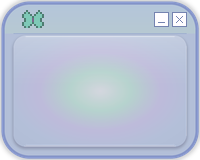
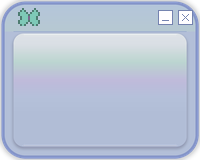
Pixel Daydream: linear gradient, yellow in received, fully consistent title bar
- Switched the panel back to a LINEAR vertical gradient (transition in the
  9-slice stretch zone, solid caps) so it stays evenly dispersed on long
  messages.
- Received bubble now blends soft butter-yellow into the pink.
- Sent bubble keeps a richer holographic linear ramp (white -> mint ->
  lavender -> periwinkle -> blue).
- Shrank the 9-slice cap to 22px and tightened the title geometry so even the
  shortest bubble stays above the clamp threshold -- the top bar and its
  top/bottom padding are now identical on every bubble, any length or shape.

Claude-Session: https://claude.ai/code/session_0131KihTAuQeJCaUMiKQDazA

diff --git a/themes/pixel-daydream/KakaoTalkTheme.css b/themes/pixel-daydream/KakaoTalkTheme.css
@@ -112,12 +112,12 @@ InputBarStyle-Chat
 
 MessageCellStyle-Send
 {
-  -ios-background-image: 'chatroomBubbleSend01.png' 24px 24px;
-  -ios-selected-background-image: 'chatroomBubbleSend01Selected.png' 24px 24px;
-  -ios-group-background-image: 'chatroomBubbleSend02.png' 24px 24px;
-  -ios-group-selected-background-image: 'chatroomBubbleSend02Selected.png' 24px 24px;
-  -ios-title-edgeinsets: 23px 16px 11px 16px;
-  -ios-group-title-edgeinsets: 23px 16px 11px 16px;
+  -ios-background-image: 'chatroomBubbleSend01.png' 22px 22px;
+  -ios-selected-background-image: 'chatroomBubbleSend01Selected.png' 22px 22px;
+  -ios-group-background-image: 'chatroomBubbleSend02.png' 22px 22px;
+  -ios-group-selected-background-image: 'chatroomBubbleSend02Selected.png' 22px 22px;
+  -ios-title-edgeinsets: 20px 16px 10px 16px;
+  -ios-group-title-edgeinsets: 20px 16px 10px 16px;
   -ios-text-color: #45456E;
   -ios-selected-text-color: #45456E;
   -ios-unread-text-color: #6E7BC8;
@@ -125,12 +125,12 @@ MessageCellStyle-Send
 
 MessageCellStyle-Receive
 {
-  -ios-background-image: 'chatroomBubbleReceive01.png' 24px 24px;
-  -ios-selected-background-image: 'chatroomBubbleReceive01Selected.png' 24px 24px;
-  -ios-group-background-image: 'chatroomBubbleReceive02.png' 24px 24px;
-  -ios-group-selected-background-image: 'chatroomBubbleReceive02Selected.png' 24px 24px;
-  -ios-title-edgeinsets: 23px 16px 11px 16px;
-  -ios-group-title-edgeinsets: 23px 16px 11px 16px;
+  -ios-background-image: 'chatroomBubbleReceive01.png' 22px 22px;
+  -ios-selected-background-image: 'chatroomBubbleReceive01Selected.png' 22px 22px;
+  -ios-group-background-image: 'chatroomBubbleReceive02.png' 22px 22px;
+  -ios-group-selected-background-image: 'chatroomBubbleReceive02Selected.png' 22px 22px;
+  -ios-title-edgeinsets: 20px 16px 10px 16px;
+  -ios-group-title-edgeinsets: 20px 16px 10px 16px;
   -ios-text-color: #6B4A60;
   -ios-selected-text-color: #6B4A60;
   -ios-unread-text-color: #EE6FA6;

diff --git a/themes/pixel-daydream/scripts/generate_images.py b/themes/pixel-daydream/scripts/generate_images.py
@@ -247,10 +247,11 @@ def pal_mono(c):
 # ===========================================================================
 DS = 12                       # draw units per 1x point (downscaled -> crisp)
 BUB_W, BUB_H = 100, 80        # 1x points
-CAP = 24                      # 9-slice cap (matches the CSS). Small enough that
-                              # even a 1-line bubble stays taller than 2*CAP, so
-                              # the cap never clamps and the TITLE BAR is exactly
-                              # the same size on every bubble regardless of text.
+CAP = 22                      # 9-slice cap (matches the CSS). Kept well below
+                              # half the smallest bubble height (~50px) so the
+                              # cap never clamps -- the TITLE BAR (and its top/
+                              # bottom padding) is then identical on every bubble
+                              # regardless of message length or shape.
 
 
 def _grad_v(w, h, top, bot):
@@ -323,19 +324,19 @@ class Bub:
 
 # panel_stops are now a RADIAL ramp: centre -> edge. The edge equals the window
 # frame colour so the panel blends seamlessly into the frame.
-# received = pink window: soft-pink centre -> pink -> deeper pink -> pink frame
-# (pink-dominant, with just a whisper of mint near the centre)
+# panel_stops are a LINEAR vertical ramp (top -> bottom).
+# received = pink window: soft butter-yellow -> warm pink -> pink frame
 RECV = Bub(border=(232, 146, 192), frame=(247, 199, 223),
            title_top=(250, 202, 225), title_bot=(238, 197, 227),
-           panel_stops=[(255, 247, 251), (250, 226, 240), (249, 208, 228), (247, 199, 223)],
+           panel_stops=[(255, 248, 224), (253, 228, 230), (250, 210, 226), (247, 199, 223)],
            div=(236, 158, 200), glow=(252, 206, 232, 150), wing=(132, 222, 214))
 
-# sent = periwinkle window: richer hologram -- white centre -> mint -> lavender
-# -> periwinkle -> blue frame edge (more colour, still soft and frame-seamless)
+# sent = periwinkle window: richer hologram -- cool white -> mint -> lavender
+# -> periwinkle -> blue (more colour, still soft)
 SENT = Bub(border=(148, 166, 224), frame=(199, 213, 240),
            title_top=(201, 219, 245), title_bot=(204, 224, 234),
-           panel_stops=[(240, 244, 250), (205, 238, 230), (214, 210, 246),
-                        (203, 216, 244), (199, 213, 240)],
+           panel_stops=[(238, 245, 250), (205, 237, 229), (215, 209, 246),
+                        (204, 217, 245), (199, 213, 240)],
            div=(158, 178, 226), glow=(200, 216, 246, 150), wing=(140, 224, 204))
 
 PANEL_ALPHA = 242             # frosted: lets a touch of background through
@@ -345,10 +346,10 @@ def _bubble_master(b):
     """Render the embossed, glossy hologram window at DS resolution."""
     W, H = BUB_W * DS, BUB_H * DS
     lw = max(2, int(1.6 * DS))
-    r_out = 14 * DS
-    title_h = 16 * DS
+    r_out = 12 * DS
+    title_h = 15 * DS
     margin = 6 * DS                  # frame thickness around the inset panel
-    r_in = 6 * DS
+    r_in = 5 * DS
     panel_gap = 1 * DS               # gap between title bar and the panel
     # NB: title_h + panel_gap + r_in (+border) must stay <= CAP so BOTH the
     # top AND bottom panel corners sit fully inside the 9-slice cap -- otherwise
@@ -390,10 +391,17 @@ def _bubble_master(b):
         [px0, py0 + int(DS * 0.9), px1, py1 + int(DS * 0.9)], radius=r_in, fill=(72, 60, 104, 85))
     out.alpha_composite(sh.filter(ImageFilter.GaussianBlur(DS * 0.8)))
 
-    # circular (radial) fill: bright centre fading to the frame colour at the
-    # edges, so the panel blends seamlessly into the window frame.
+    # LINEAR vertical gradient. The whole colour transition lives in the
+    # 9-slice stretch zone (between the caps); the cap zones are solid and equal
+    # to the gradient's end colours. KakaoTalk then scales the gradient evenly
+    # over the middle of any-height bubble while the caps continue the end
+    # colours -- so even long messages get an evenly dispersed gradient.
+    mid0, mid1 = CAP * DS, H - CAP * DS
     pfill = Image.new("RGBA", (W, H), (0, 0, 0, 0))
-    pfill.paste(_radial_fill(px1 - px0, py1 - py0, b.panel_stops).convert("RGBA"), (px0, py0))
+    pd = ImageDraw.Draw(pfill)
+    pd.rectangle([0, py0, W, mid0], fill=b.panel_stops[0] + (255,))
+    pfill.paste(_grad_v_stops(W, mid1 - mid0, b.panel_stops).convert("RGBA"), (0, mid0))
+    pd.rectangle([0, mid1, W, py1], fill=b.panel_stops[-1] + (255,))
     out.paste(pfill, (0, 0), pmask)
 
     # soft glossy sheen across the top of the panel (subtle, vertical fade)
@@ -434,14 +442,14 @@ def _overlay_widgets(img, scale, b):
     d = ImageDraw.Draw(img)
     # pixel butterfly, inset from the LEFT, vertically centred in the title bar
     draw_pixels(d, BUTTERFLY, pal_butterfly(b.wing, darken(b.wing, 0.62)),
-                11 * scale, 5 * scale, scale)
+                9 * scale, 4 * scale, scale)
     # minimize + close buttons, inset from the RIGHT, centred in the title bar
     edge = darken(b.border, 0.88)
     bfill = (255, 253, 255, 240)
     size = 7
     for i, kind in enumerate(("min", "close")):
-        x = (77 + i * 9) * scale
-        y = 6 * scale
+        x = (79 + i * 10) * scale
+        y = 5 * scale
         x1, y1 = x + size * scale, y + size * scale
         d.rectangle([x, y, x1, y1], fill=bfill, outline=edge, width=max(1, scale // 2))
         if kind == "min":

diff --git a/themes/pixel-daydream/scripts/preview_pages.py b/themes/pixel-daydream/scripts/preview_pages.py
@@ -14,7 +14,7 @@ HDR = (247, 217, 238)
 TEXT = (106, 90, 122)
 SUB = (156, 138, 182)
 ACCENT = (240, 106, 160)
-CAP3 = 24 * 3
+CAP3 = 22 * 3
 
 
 def font(sz, bold=False):
